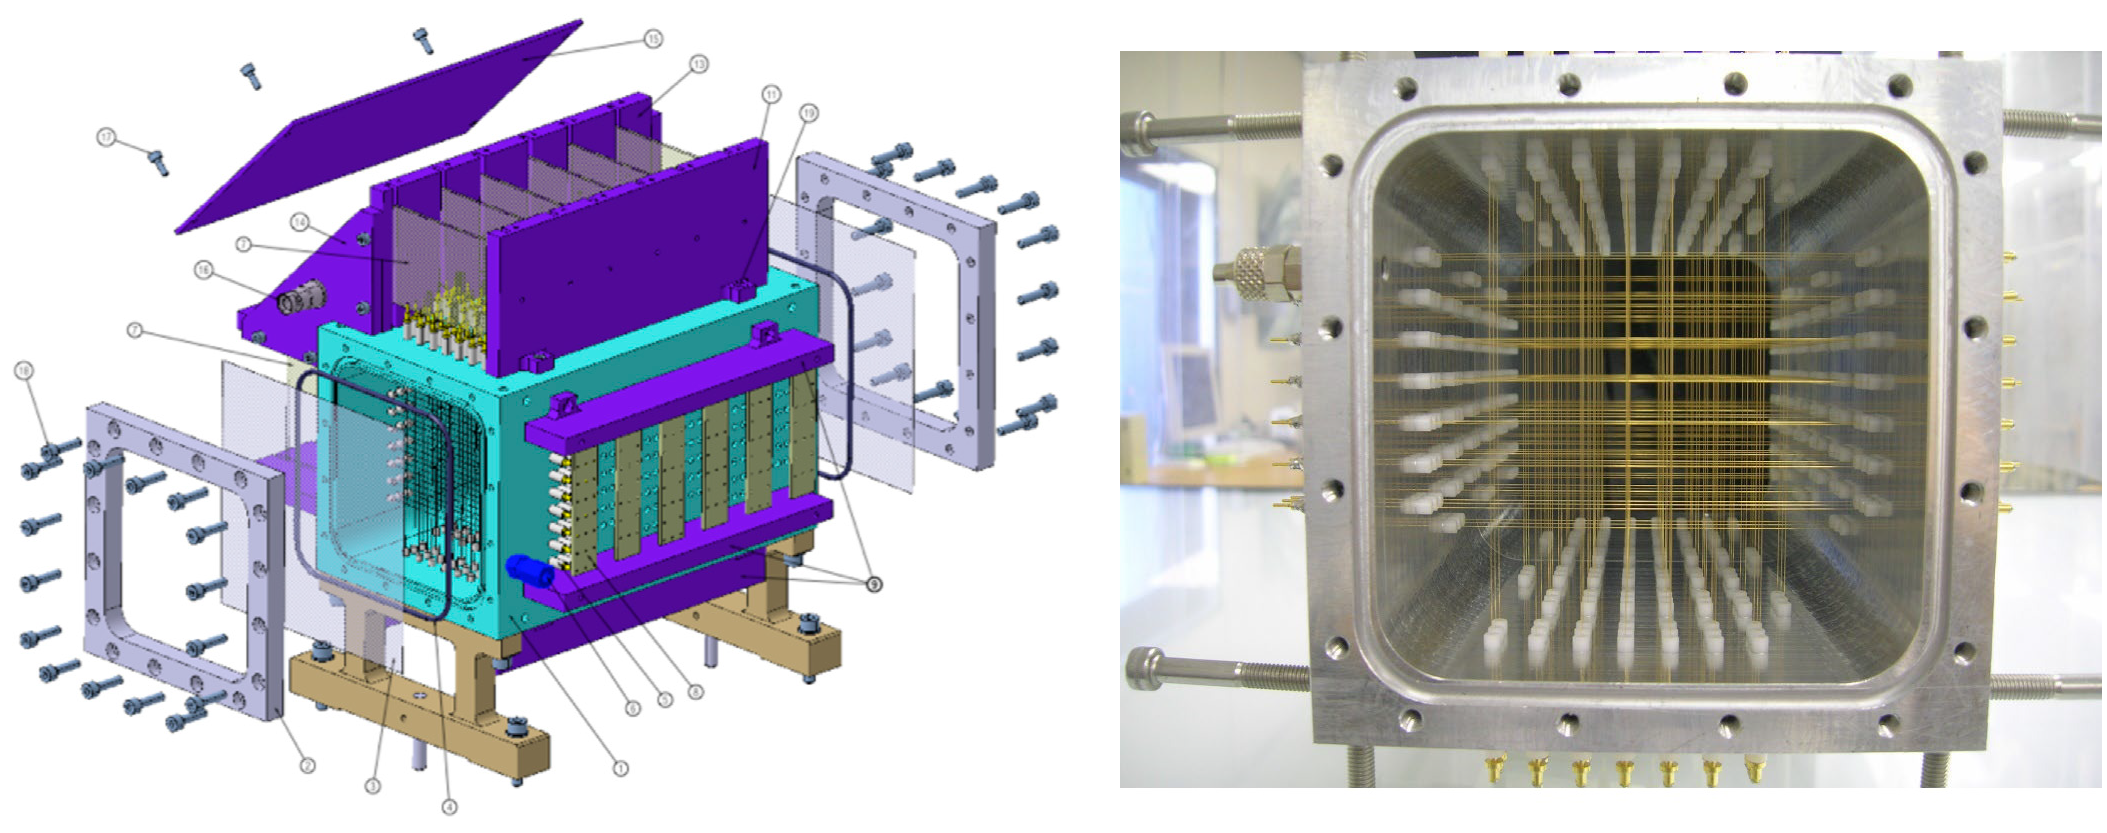
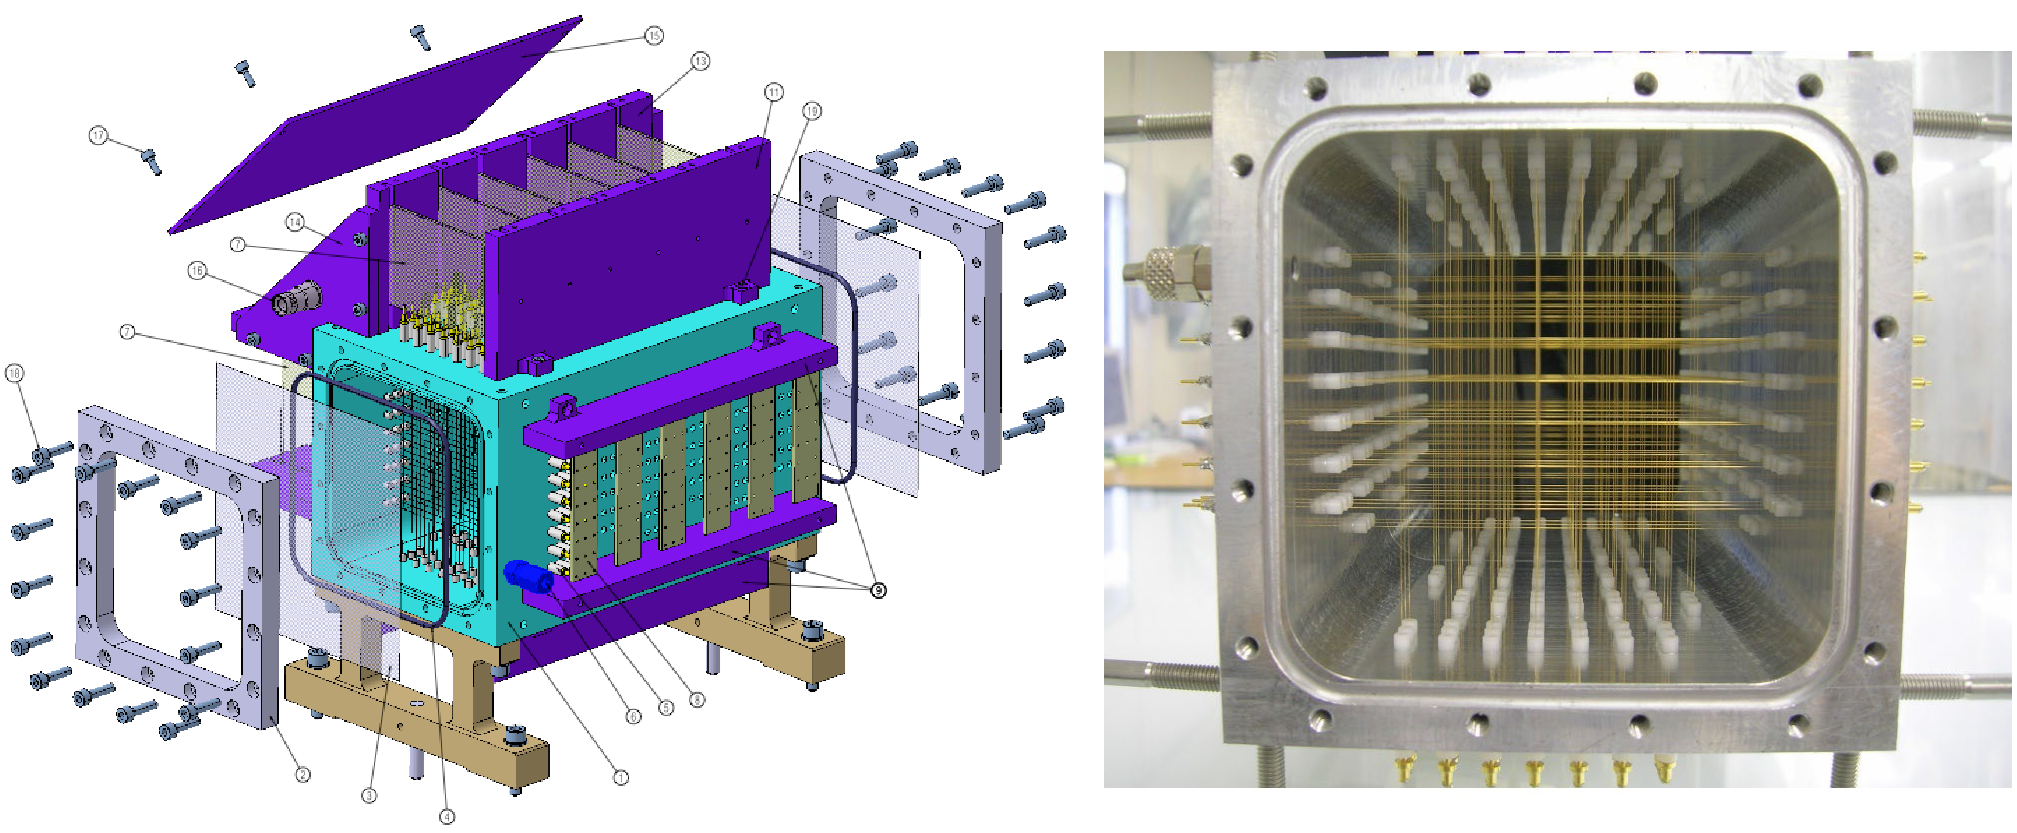
Add magnetic section

diff --git a/dissertation/Chapters/Chapter 2/chapter_2.tex b/dissertation/Chapters/Chapter 2/chapter_2.tex
@@ -207,7 +207,7 @@ The Start Counter (SC) is positioned at the very beginning of the electronic set
 	\caption[Start Counter]{SC plastic scintillator inside its aluminum frame (top left), surrounded by the outer black casing (right) to shield it from the environmental background light. A group of lateral SiPMs is also sketched (bottom left). Adapted from \cite{UbaldiPhDThesis,Traini2019FOOT}.}
 	\label{fig:start_counter}
 \end{figure}
-The tasks fulfilled by the SC include measuring the initial timestamp of the ToF (whose final timestamp is provided by the ToF Wall, see \autoref{sssec:tof_wall}), distributing the reference time of a FOOT event\footnote{An event in FOOT represents the sequence of events where a single beam particle firstly interacts with the SC, then collides with the target and finally produces (or not) nuclear fragments.} to all the other detectors, generating the minimum bias trigger (see \autoref{ssec:tdaq_electronic_setup}) and evaluating the beam ion flux. To guarantee the rapid synchronization of the whole electronic setup, the SC possesses a precise time resolution of $50\,\mathrm{ps}$ (according to the CNAO2024 campaign with $400\,\mathrm{MeV/u}$ \ce{^{12}C} ions \cite{UbaldiPhDThesis}) and an efficiency for primaries' detection close to $1$ at rates $\lesssim10\,\mathrm{kHz}$ (as reported in \cite{Haidar_2012}).
+The tasks fulfilled by the SC include measuring the initial timestamp of the ToF (whose final timestamp is provided by the ToF Wall, see \autoref{sssec:tof_wall}), distributing the reference time of a FOOT event\footnote{An event in FOOT represents the sequence of events where a single beam particle firstly interacts with the SC, then collides with the target and finally produces (or not) nuclear fragments.} to all the other detectors, generating the minimum bias trigger (see \autoref{ssec:tdaq_electronic_setup}) and evaluating the beam ion flux. To guarantee the rapid synchronization of the whole electronic setup, the SC possesses a precise time resolution of $50\,\mathrm{ps}$ (according to the CNAO 2024 campaign with $400\,\mathrm{MeV/u}$ \ce{^{12}C} ions \cite{UbaldiPhDThesis}) and an efficiency for primaries' detection close to $1$ at rates $\lesssim10\,\mathrm{kHz}$ (as reported in \cite{Haidar_2012}).
 \subsubsection{Beam Monitor}\label{sssec:beam_monitor}
 Following the beam direction, after the SC the primary ions cross the Beam Monitor (BM), a drift chamber filled with a gaseous mixture of $\ce{Ar}/\ce{CO2}$ at $80/20\%$, respectively, kept approximately at ambient pressure ($\simeq0.9\,\mathrm{bar}$). As illustrated in the technical drawing in \autoref{fig:beam_monitor} (left), the BM drift chamber is composed of $12$ groups of wire layers oriented orthogonally with respect to the beam direction, which reconstruct the beam position in both the $x$ and $y$ coordinates. The horizontal and vertical layers, independently, are staggered by half a cell to solve left-right hit ambiguities in track reconstruction, as sketched in \autoref{fig:beam_monitor2}. Additionally, as presented in \autoref{fig:beam_monitor2}, each wire layer consists of $3$ rectangular drift cells with dimension $16\times10\,\mathrm{mm}^2$. The organized network of wires (see \autoref{fig:beam_monitor} (right)) allows the BM to achieve a $\simeq90\%$ detection efficiency for a wide range of beams and energies \cite{RidolfiPhDThesis}, a good spatial resolution of $100\,\mu\mathrm{m}$ towards the BM center and an angular resolution of $2\,\mathrm{mrad}$ \cite{DONG2021164756}.
 \begin{figure}[H]
@@ -222,7 +222,7 @@ The high spatial and angular resolutions of the BM are particularly relevant for
 \begin{figure}[H]
 	\centering
 	\includegraphics[width=0.98\linewidth]{beam_monitor2.png}
-	\caption[Beam Monitor]{Detailed structure of BM drift chamber, adapted from \cite{UbaldiPhDThesis}.}
+	\caption[Beam Monitor wire scheme]{Detailed structure of BM drift chamber, adapted from \cite{UbaldiPhDThesis}.}
 	\label{fig:beam_monitor2}
 \end{figure}
 \subsection{Tracking region}\label{ssec:tracking_reg}
@@ -230,11 +230,11 @@ The tracking region represents the operating core of the electronic setup, which
 \begin{figure}[H]
 	\centering
 	\includegraphics[width=0.98\linewidth]{tracking_region.png}
-	\caption[Tracking region]{On the left, picture of the FOOT magnetic spectrometer during a CNAO data taking campaign. In FOOT global frame of reference, the $y$ axis runs vertically, while the $z$ axis runs horizontally. The beam comes from the left, along the $z$ axis, crosses sequentially the target (not shown), the Vertex Tracker (VT), the magnets and the Inner Tracker (IT) and, finally, the Microstrip Silicon Detector (MSD). All the detectors are found inside the mechanical framing shown in the picture. On the right, computed magnetic field map produced by the FOOT magnets in Halbach configuration. The magnetic field intensity $B(T)$, shown in the palette, is referred to its $y$ axis component. Adapted from \cite{measurement_impact_foot,ZarrellaPhDThesis}.}
+	\caption[Tracking region]{On the left, picture of the FOOT magnetic spectrometer during a CNAO data taking campaign. In FOOT global frame of reference, the $y$ axis runs vertically, while the $z$ axis runs horizontally. The beam comes from the left, along the $z$ axis, crosses sequentially the target (not shown), the Vertex Tracker (VT), the magnets and the Inner Tracker (IT) and, finally, the Microstrip Silicon Detector (MSD). All the detectors are found inside the mechanical framing shown in the picture. On the right, computed magnetic field map produced by the FOOT magnets in Halbach configuration. The magnetic field intensity $B(T)$, shown in the lateral palette, is referred to its $y$ axis component. Adapted from \cite{measurement_impact_foot,ZarrellaPhDThesis}.}
 	\label{fig:tracking_region}
 \end{figure}
 \subsubsection{Vertex Tracker}\label{sssec:vertex_tracker}
-Being situated just $\lesssim1\,\mathrm{cm}$ after the target, the Vertex Tracker (VT) is undoubtedly the most relevant tracking station of the electronic setup. Indeed, the VT is essential not only to reconstruct the initial fragment path, but also to find the interaction point between the primary ion and the target, which determines the fragment emission point (hereinafter also denominated VT point). As shown in \autoref{fig:vertex_tracker} (left), the VT consists of $4$ detection layers, each with an active area of $\simeq2\times2\,\mathrm{cm}^2$, providing a total angular acceptance of $\simeq40\,^{\circ}$.\footnote{Such angular acceptance cannot be fully exploited due to the overall electronic setup's angular acceptance of $\simeq10\,^{\circ}$.}
+Being situated just $\lesssim1\,\mathrm{cm}$ after the target, the Vertex Tracker (VT) is undoubtedly the most relevant tracking station of the electronic setup. Indeed, the VT is essential not only to reconstruct the initial fragment path, but also to find the interaction point between the primary ion and the target, which determines the fragment emission point (hereinafter also denominated VT point). As shown in \autoref{fig:vertex_tracker} (left), the VT consists of $4$ detection layers situated along the $z$ axis, each with an active area of $\simeq2\times2\,\mathrm{cm}^2$, providing a total angular acceptance of $\simeq40\,^{\circ}$.\footnote{Such angular acceptance cannot be fully exploited due to the overall electronic setup's angular acceptance of $\simeq10\,^{\circ}$.}
 
 To minimize VT thickness, each detection layer adopts the MIMOSA-28\footnote{MIMOSA stands for Minimum Ionizing MOS Active pixel sensor.} (M28, see \autoref{fig:vertex_tracker} (right)) CMOS Monolithic Active Pixel Sensors (MAPS) technology, particularly suitable in low material budget applications due to the fact that both the sensor and the readout electronics are integrated onto the same silicon wafer, guaranteeing a layer thickness of just $50\,\mu\mathrm{m}$, resulting in a total thickness of $200\,\mu\mathrm{m}$ for the entire VT. The M28 sensor, originally built for the STAR experiment at RHIC \cite{GREINER201168,Valin_2012} and later employed in PT and SRP applications \cite{REIDEL2021165807}, is constituted by a matrix of $928\,\mathrm{rows}\times960\,\mathrm{columns}$ pixels with a pitch of $20.7\,\mu\mathrm{m}$, which allows for a spatial resolution of $\simeq5\,\mu\mathrm{m}$ after performing an appropriate alignment procedure \cite{REIDEL2019142,SPIRITI201735}. The VT high spatial resolution allows to resolve the $\mathrm{mrad}$ when measuring the fragment emission angles. This, combined with the precise evaluation of the beam direction at the $\mathrm{mrad}$ level provided by the BM (see \autoref{sssec:beam_monitor}), is beneficial to the relativistic transformations applied to the inverse kinematic method (see \autoref{sec:inv_dir_kin}).
 \begin{figure}[H]
@@ -249,7 +249,7 @@ Contrary to fully depleted CMOS sensors, the MAPSs of M28 are only partly deplet
 
 Despite the partial depletion of M28 pixels, their epitaxial layer has a resistivity of $400\,\Omega\cdot\mathrm{cm}$, which exceeds the standard $10\,\Omega\cdot\mathrm{cm}$ of the previous MIMOSA-26 device, ensuring enhanced signal-to-noise ratio and superior radiation tolerance. Each M28 pixel integrates a binary readout (hit/no hit) with an in-chip zero suppression mechanism to reduce the data transfer load off-chip. Moreover, it includes a Correlated Double Sampling (CDS) circuitry, which removes undesired offsets. The M28 $\simeq1$ million pixels are readout via a rolling shutter technique, which employs $960$ end-of-column discriminators to readout columns in parallel and produce a digitized binary information for each pixel. The readout time takes $185.6\,\mu\mathrm{s}$, allowing a frame rate of $\simeq5\,\mathrm{kHz}$.
 
-The VT readout is implemented with a Terasic DE10 board system housing an Intel/Altera System-on-Chip (SoC) FPGA (Cyclon V) with a dual-core Cortex-A9 CPU. The FPGA interfaces the VT sensors with the Trigger and Data Acquisition (TDAQ) control, which handles trigger, time-stamping and busy signals. Once a triggering event occurs, the CPU is finally employed to send data to the central DAQ via a $1\,\mathrm{Gb}$ Ethernet connection.
+The VT readout is implemented with a Terasic DE10 board system housing an Intel/Altera System-on-Chip (SoC) FPGA (Cyclon V) with a dual-core Cortex-A9 CPU. The FPGA interfaces the VT sensors with the Trigger and Data Acquisition (TDAQ) control, which handles trigger, time-stamping and busy signals. Once a triggering event occurs, the CPU is finally employed to send data to the central DAQ via a $1\,\mathrm{Gb}$ Ethernet connection \cite{measurement_impact_foot}.
 \begin{figure}[H]
 	\centering
 	\includegraphics[width=0.75\linewidth]{maps.pdf}
@@ -257,10 +257,32 @@ The VT readout is implemented with a Terasic DE10 board system housing an Intel/
 	\label{fig:maps}
 \end{figure}
 \subsubsection{Inner Tracker}\label{sssec:inner_tracker}
-The Inner Tracker (IT) is located in the cavity between the two permanent magnets, as illustrated in \autoref{fig:tracking_region}. The IT is characterized by the same technology of the VT (see \autoref{sssec:vertex_tracker}), with the difference that only $2$ detecting layers are emp
+To achieve the required momentum resolution, an additional tracker named Inner Tracker (IT) is located in the cavity between the two permanent magnets, as illustrated in \autoref{fig:tracking_region} (left). The IT measures the particle trajectory after the deflection provided by the first magnet. To simplify the DAQ architecture, the IT was developed using the same M28 MAPS technology of the VT (see \autoref{sssec:vertex_tracker}), with the mere difference that only $2$ detecting planes (with larger extension) are foreseen, each composed of $16$ M28 sensors covering a total sensitive area of $8\times8\,\mathrm{cm}^2$ per layer. The IT tracking performances are not influenced by the residual $\simeq0.6\,\mathrm{T}$ magnetic field in the gap between the permanent magnets \cite{DEBOER2002163}, where the IT is positioned.
+
+As schematized in \autoref{fig:inner_tracker} (top), the IT was built using groups of ladders, a method similarly explored in the PLUME project \cite{SMeroli_2011}. Each of the $2$ staggered IT layers possesses two ladders orthogonal with respect to the beam direction and separated in the vertical $y$ axis by $\simeq1\,\mathrm{cm}$. Every ladder hosts $8$ M28 sensors arranged on both sides, with a back-to-back spacing of $2\,\mathrm{mm}$. Hence, in each side of the ladder, $4$ glued M28 sensors are attached together, as shown in \autoref{fig:inner_tracker} (bottom).
+\begin{figure}[H]
+	\centering
+	\includegraphics[width=0.65\linewidth]{inner_tracker2.png}
+	\caption[Inner Tracker]{At the top, technical drawing of the $4$ ladders hosting $8$ back-to-back sensors each. At the bottom, a front view of the $4$ M28 chips attached together to form one side of the ladder. From \cite{UbaldiPhDThesis}.}
+	\label{fig:inner_tracker}
+\end{figure}
 \subsubsection{Permanent magnets}\label{sssec:permanent_magnets}
+To perform the momentum measurement, fragment trajectories are bent by $2$ permanent magnets, represented in \autoref{fig:tracking_region} (left). To meet the requirements on momentum resolution (see \autoref{sec:electronic_setup}) and on the portability of the apparatus, two hollowed magnets in Halbach configuration were chosen, both composed of multiple blocks made of Neodymium-Iron-Boron material (see \autoref{fig:permanent_magnets}). The Halbach configuration guarantees an approximately constant magnetic field $B(T)$ inside the internal cylindrical hole and a negligible $B(T)$ outside the cylinders, as illustrated in the field map of \autoref{fig:tracking_region} (right).
+\begin{figure}[H]
+	\centering
+	\includegraphics[width=0.7\linewidth]{permanent_magnets.png}
+	\caption[Permanent magnets sketch]{Model of the two dipoles of the FOOT magnet system as built in OPERA 3D viewer. From \cite{Trigilio_2025}.}
+	\label{fig:permanent_magnets}
+\end{figure}
+The first and the second magnets have internal diameters of $5\,\mathrm{cm}$ and $10.6\,\mathrm{cm}$, which respectively provide a maximum magnetic field intensity of $1.4\,\mathrm{T}$ and $0.9\,\mathrm{T}$ along the $y$ axis. As the $B(T)$ is oriented towards the $y$ axis and the beam follows the $z$ positive direction, the charged fragments' bending coordinate lies in the $x$ axis.\footnote{This simply derives from the Lorentz force $\vect{F_L}=q\vect{v}\times\vect{B}$. $\vect{F_L}\parallel\vect{\hat{x}}$ since $\vect{v}\parallel\vect{\hat{z}}$ and $\vect{B}\parallel\vect{\hat{y}}$.} As schematized in \autoref{fig:lifted_perm_magn}, the permanent magnets can be vertically lifted by $40\,\mathrm{cm}$ to facilitate alignment procedures, which usually do not require the presence of a magnetic field.
+\begin{figure}[H]
+	\centering
+	\includegraphics[width=0.95\linewidth]{lifted_perm_magn.png}
+	\caption[Vertical displacement of permanent magnets]{Technical drawing representing detectors and support structures of the upstream and tracking regions. The permanent magnets can be vertically displaced in (left) and out (right) of the beam line. From \cite{ZarrellaPhDThesis}.}
+	\label{fig:lifted_perm_magn}
+\end{figure}
 \subsubsection{Microstrip Silicon Detector}\label{sssec:microstrip_silicon_detector}
-To further increase the lever arm after the magnetic region, 
+To further increase the lever arm after the magnetic region, a third 
 \subsection{Downstream region}\label{ssec:downstream_reg}
 \subsubsection{ToF Wall}\label{sssec:tof_wall}
 \subsubsection{Calorimeter}\label{sssec:calorimeter}
